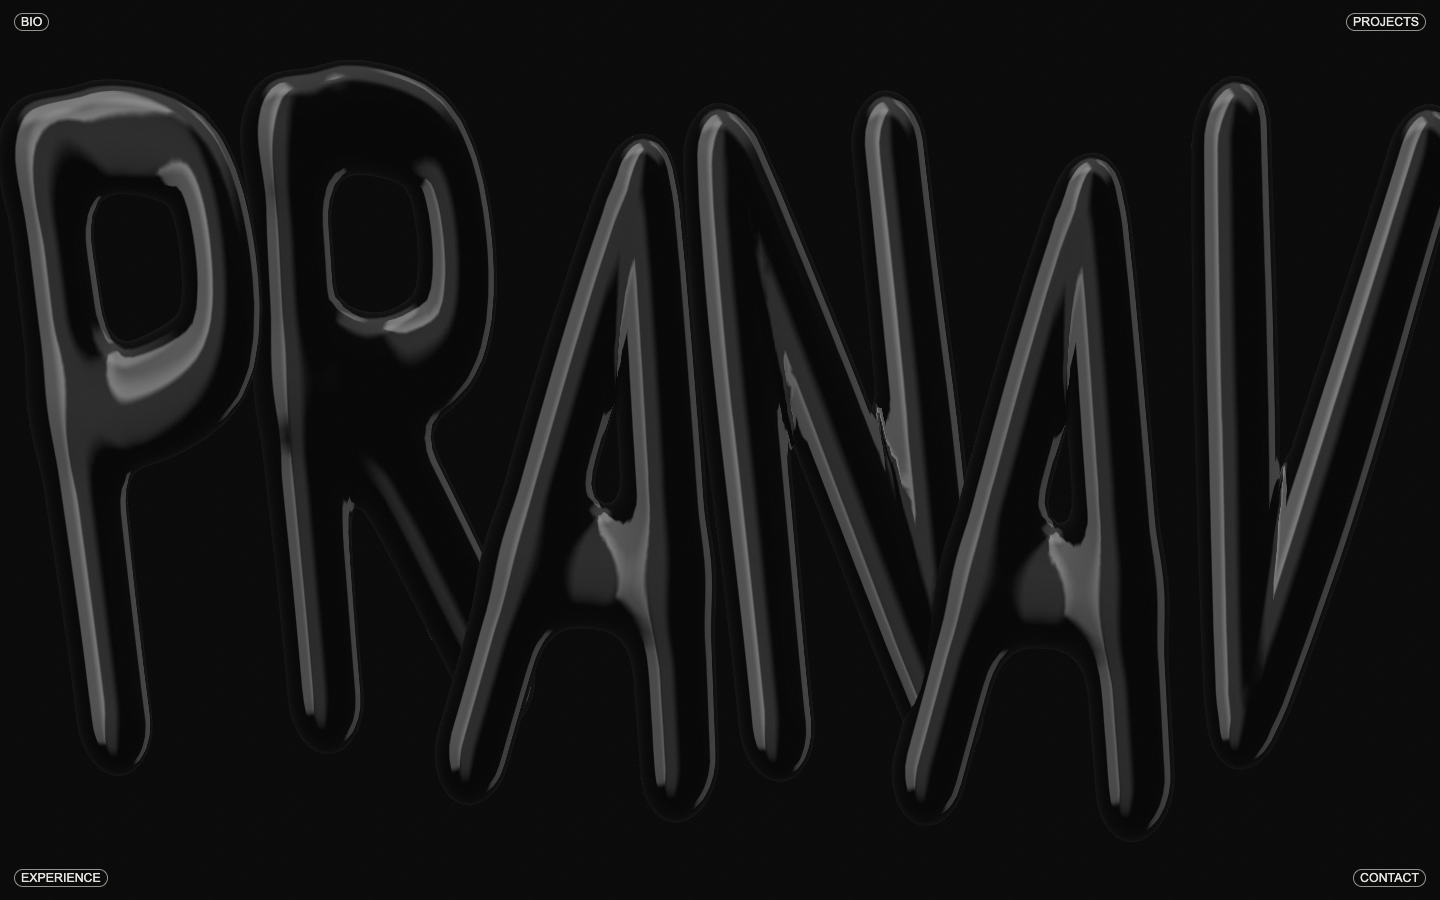
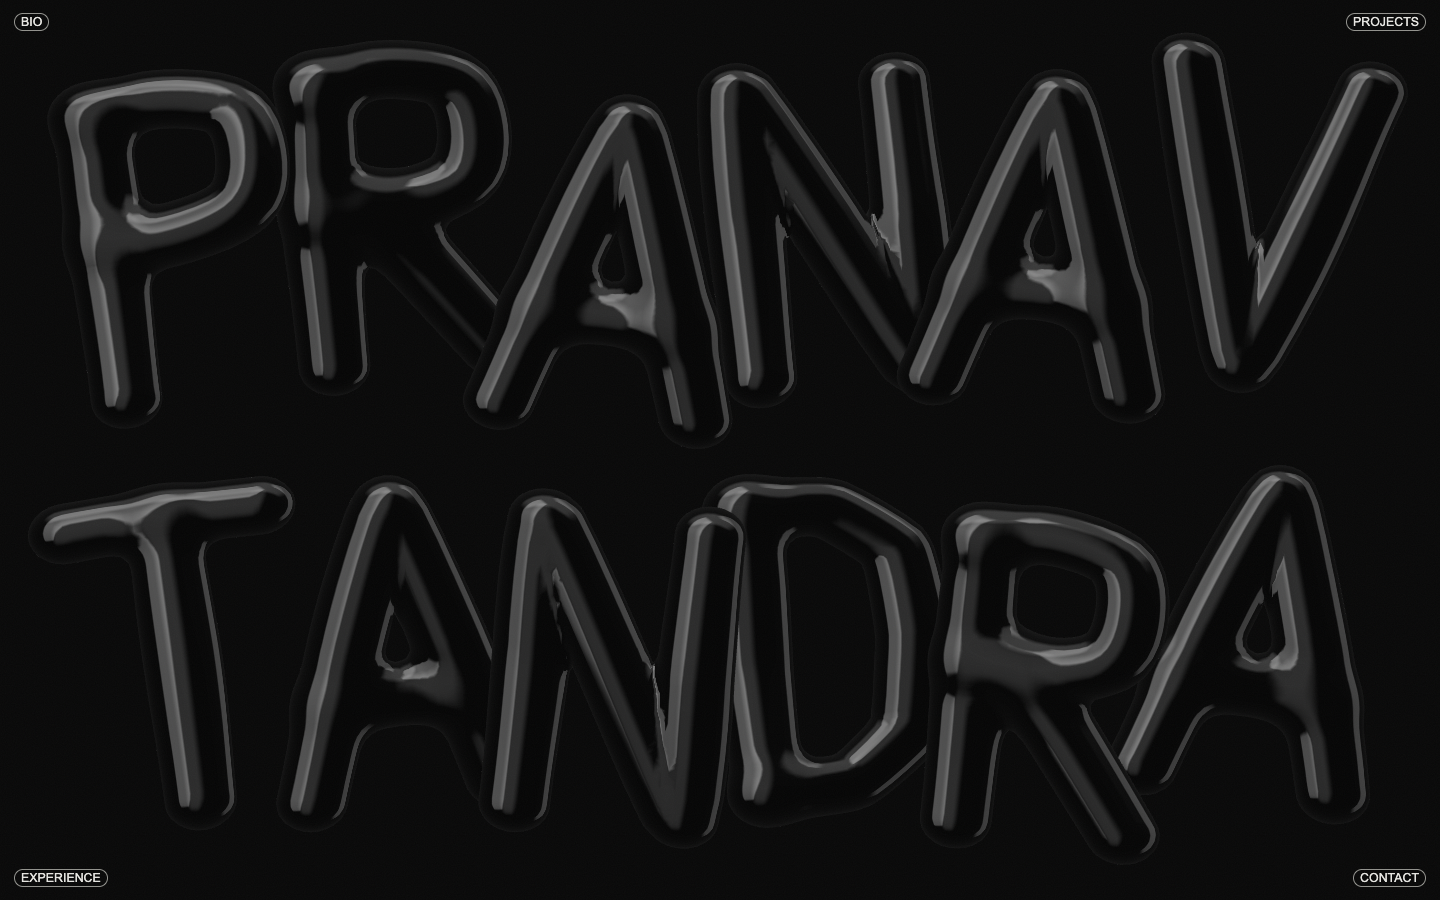
Add Tandra beneath Pranav in the portfolio sculpture

Changed region(s): [[0.0, 0.0311, 1.0, 0.9333]]

diff --git a/main.js b/main.js
@@ -37,12 +37,13 @@ function mount(){
  gl_FragColor=vec4(vec3(tone),1.);}`
  });
  const cache=new Map();
- const letters=[...'PRANAV'].map(ch=>{
+ const letters=[...'PRANAVTANDRA'].map(ch=>{
   if(!cache.has(ch))cache.set(ch,sculpt(ch,material));
   const mesh=new T.Mesh(cache.get(ch),material); group.add(mesh);return mesh;
  });
  const tilt=[.13,.08,-.11,.10,-.10,-.15],heights=[.187,.323,-.17,.085,-.306,.136];
  const pitch=[-.09,.12,.08,-.14,.07,-.08];
+ const baseline=letters.map(()=>0);
  const hover=letters.map(()=>0);
  const floats=letters.map(()=>({
   phase:Math.random()*2*Math.PI,
@@ -54,12 +55,16 @@ function mount(){
  function resize(){
   hovered=null;
   const w=innerWidth,h=innerHeight,aspect=w/h;
+  const width=Math.max(10.55,5.7*aspect);
+  const verticalScale=Math.min(1.4,width/aspect/8.2);
   letters.forEach((m,i)=>{
-   m.position.set((i-2.5)*1.58,heights[i],[.32,-.16,.23,-.12,.26,-.24][i]);
-   m.scale.set(1,Math.max(1,Math.min(1.65,2.42/aspect)),1);
-   m.rotation.set(pitch[i],[-.18,.19,-.12,.22,-.20,.14][i],tilt[i]);
+   const column=i%6;
+   const rowCenter=i<6?1.88:-1.88;
+   baseline[i]=(rowCenter+heights[column]*.45)*verticalScale;
+   m.position.set((column-2.5)*1.58,baseline[i],[.32,-.16,.23,-.12,.26,-.24][column]);
+   m.scale.set(1,verticalScale,1);
+   m.rotation.set(pitch[column],[-.18,.19,-.12,.22,-.20,.14][column],tilt[column]);
   });
-  const width=Math.max(aspect<1?10.55:10.05,3.95*aspect);
   camera.left=-width/2;camera.right=width/2;camera.top=width/aspect/2;camera.bottom=-camera.top;camera.updateProjectionMatrix();
   renderer.setPixelRatio(Math.min(devicePixelRatio,1.75,Math.sqrt(3600000/(w*h))));renderer.setSize(w,h,false);
  }
@@ -77,8 +82,8 @@ function mount(){
    const {phase,speed,amplitude}=floats[i];
    const drift=motion.matches?0:amplitude*Math.sin(t*speed+phase);
    hover[i]=motion.matches?0:hover[i]+(target-hover[i])*(1-(1-k)**2);
-   letter.rotation.x=pitch[i]+.14*hover[i];
-   letter.position.y=heights[i]+drift+.065*hover[i];
+   letter.rotation.x=pitch[i%6]+.14*hover[i];
+   letter.position.y=baseline[i]+drift+.065*hover[i];
   });
   renderer.render(scene,camera);
  }

diff --git a/index.html b/index.html
@@ -1,1 +1,1 @@
-<!doctype html><html lang="en"><head><meta charset="utf-8"><meta name="viewport" content="width=device-width, initial-scale=1,viewport-fit=cover"><meta name="theme-color" content="#080808"><title>Pranav Tandra — Portfolio</title><link rel="stylesheet" href="/style.css"></head><body><main><h1>Pranav</h1><canvas aria-hidden="true"></canvas></main><nav aria-label="Portfolio"><button disabled><span>Bio</span></button><button disabled><span>Projects</span></button><button disabled><span>Experience</span></button><button disabled><span>Contact</span></button></nav><script type="module" src="/main.js"></script></body></html>
+<!doctype html><html lang="en"><head><meta charset="utf-8"><meta name="viewport" content="width=device-width, initial-scale=1,viewport-fit=cover"><meta name="theme-color" content="#080808"><title>Pranav Tandra — Portfolio</title><link rel="stylesheet" href="/style.css"></head><body><main><h1>Pranav<br>Tandra</h1><canvas aria-hidden="true"></canvas></main><nav aria-label="Portfolio"><button disabled><span>Bio</span></button><button disabled><span>Projects</span></button><button disabled><span>Experience</span></button><button disabled><span>Contact</span></button></nav><script type="module" src="/main.js"></script></body></html>

diff --git a/geometry.js b/geometry.js
@@ -6,6 +6,8 @@ import {MarchingCubes} from 'three/addons/objects/MarchingCubes.js';
 const upright=[[-.55,-1.34],[-.56,-.2],[-.53,1.27]];
 const bowl=[[-.53,1.27],[-.03,1.34],[.49,1.17],[.62,.72],[.49,.28],[-.02,.10],[-.53,.11]];
 const paths={
+ T:[[[0,-1.32],[.01,.05],[0,1.28]],[[-.72,1.28],[0,1.31],[.72,1.28]]],
+ D:[upright,[[-.53,1.27],[.08,1.24],[.57,.81],[.65,.01],[.55,-.83],[.09,-1.28],[-.55,-1.34]]],
  P:[upright,bowl],R:[upright,bowl,[[-.22,.12],[.16,-.47],[.68,-1.32]]],
  A:[[[-.72,-1.34],[-.38,.02],[.01,1.32],[.39,.04],[.72,-1.31]],[[-.48,-.49],[.02,-.45],[.48,-.48]]],
  N:[[[-.61,-1.32],[-.61,.05],[-.60,1.33],[-.05,.16],[.61,-1.31],[.62,.06],[.61,1.32]]],
